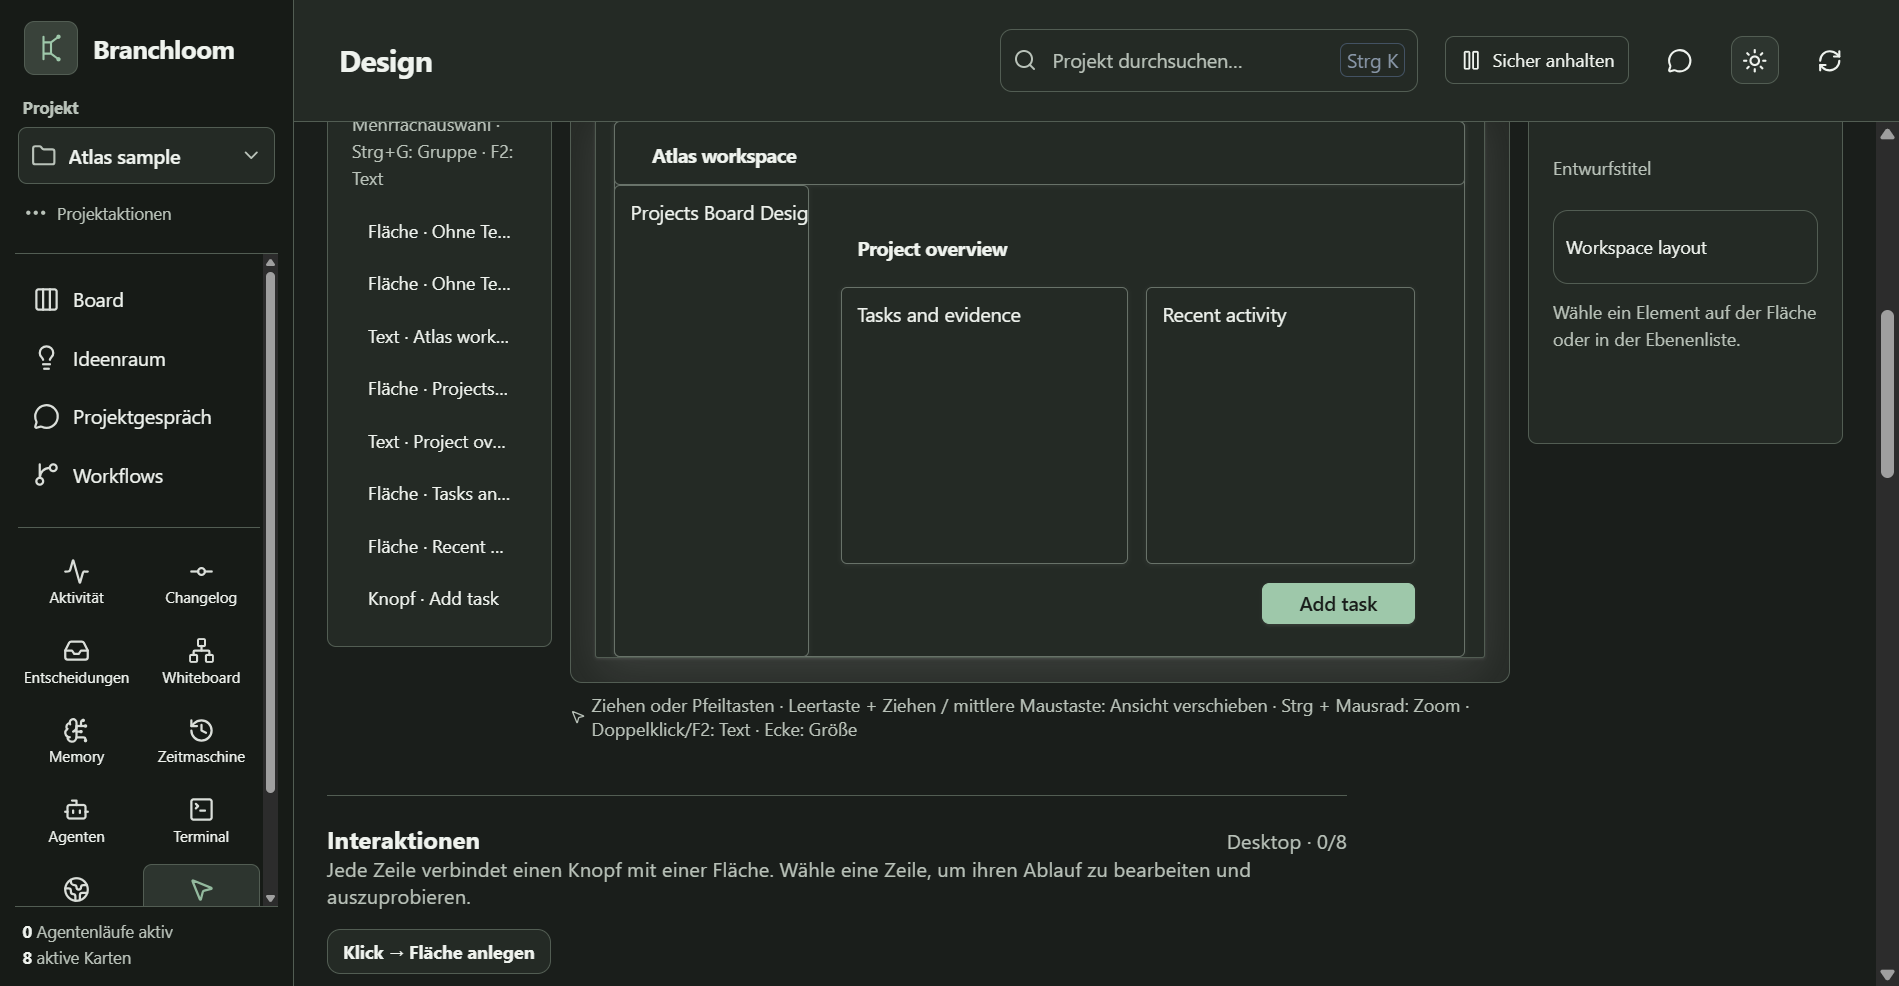
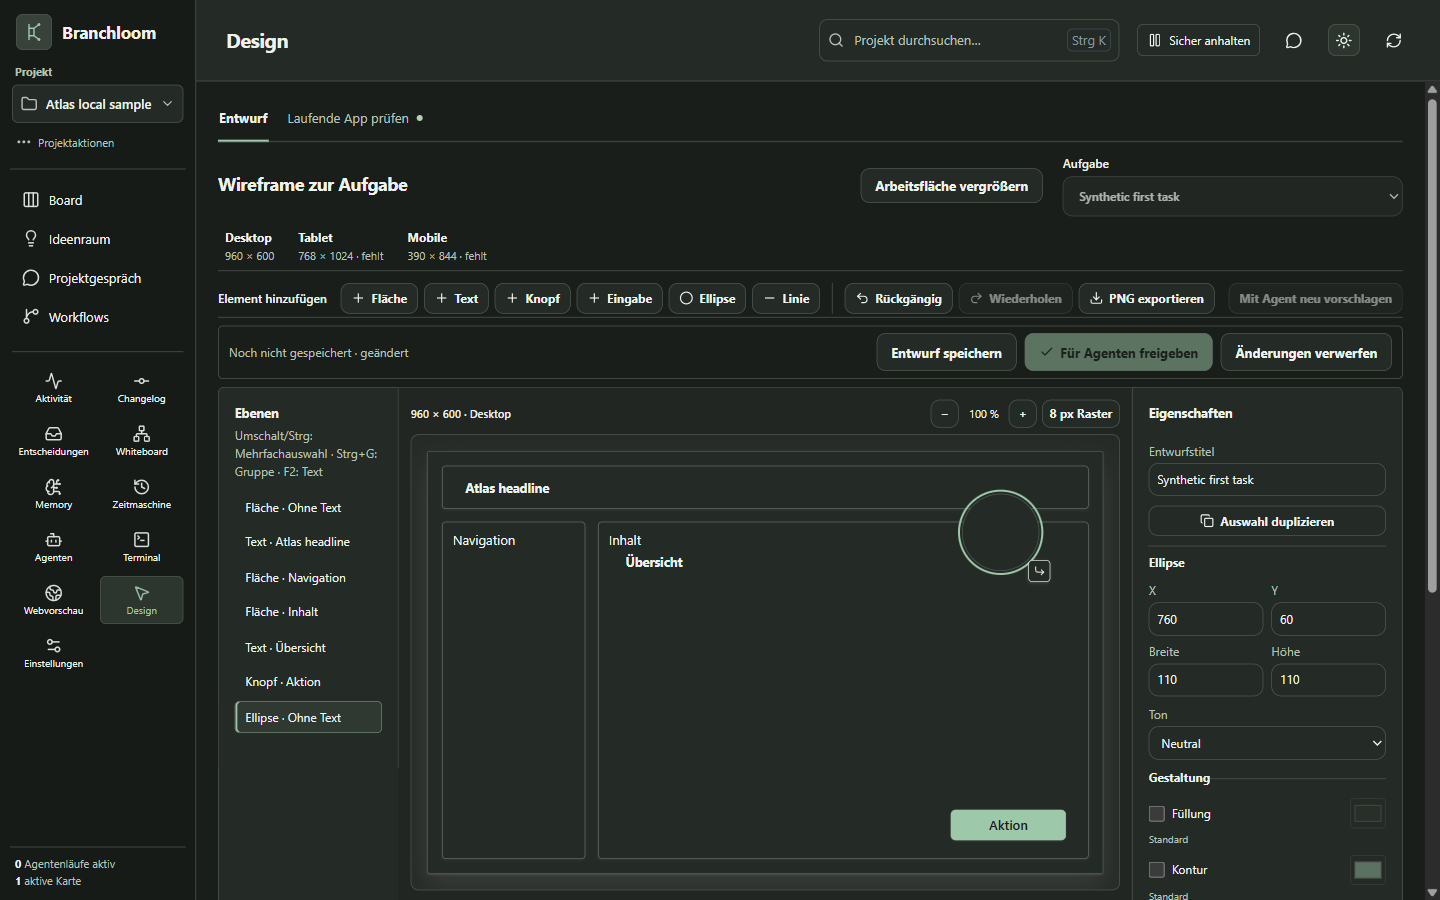
Document design direction and refresh workspace previews

diff --git a/README.md b/README.md
@@ -21,8 +21,8 @@ Branchloom is an early Windows preview. The interface and detailed feature docs 
 | --- | --- |
 | **Plan work** | Import an existing local Git project, capture ideas, create and filter board cards, set priorities and labels, and configure columns and workflows. The official Windows installer includes Trello sign-in; a custom package needs its own [Trello app setup](docs/IMPORT.md). |
 | **Run agents** | Assign an installed CLI agent to a column or task. Branchloom starts local sessions, records their output, and can run independent cards in separate Git worktrees. Agent availability and model access depend on the CLI installed and signed in on your machine. |
-| **Keep context** | Search locally indexed tasks, completed runs, Git commits, and code passages. The Memory graph shows documented relationships; it does not infer semantic links from prose. Project Chat can answer from indexed sources and prepare editable card or Whiteboard drafts. Saving either draft requires a click. |
-| **Shape the UI** | Create a card wireframe across desktop, tablet, and mobile artboards; inspect an explicitly opened local dev page; collect element, CSS, component, and token references. A saved wireframe reaches an agent only after separate approval. |
+| **Keep context** | Search locally indexed tasks, completed runs, Git commits, and code passages. The Memory graph opens at a source with saved links and lets you inspect one or two relationship steps or the full current excerpt; it does not infer semantic links from prose. Project Chat can answer from indexed sources and prepare editable card or Whiteboard drafts. Saving either draft requires a click. |
+| **Shape the UI** | Edit a card wireframe across desktop, tablet, and mobile artboards, with layers, properties, and explicit save and approval. A separate view inspects an explicitly opened local dev page and collects element, CSS, component, and token references. A saved wireframe reaches an agent only after separate approval. |
 | **Review and verify** | Inspect diffs, attach acceptance and QA evidence, run bounded browser checks against a local route, compare saved screenshots, and use the manual integration queue. Evidence is shown with its source and limits. |
 | **Replay a UI bug** | Record a few clicks and viewport changes in a local card preview, set a visible or hidden element as the expected result, then explicitly replay the saved steps in an isolated check. [Scope and limits](docs/BUG_REPLAY.md). |
 | **Control the run** | Pause a project or workflow at a checked boundary, review agent questions in the Decision Inbox, and inspect local activity and usage counts. The installed app offers a GitHub release update only after you choose **Update**. |
@@ -43,20 +43,20 @@ The pictured answer is generated by the synthetic screenshot harness, not a real
 <details>
 <summary>Memory and Whiteboard</summary>
 
-![Branchloom Memory graph built from synthetic tasks, sessions, and a Git repository](docs/assets/branchloom-memory.png)
+![Branchloom Memory focused on a synthetic task and its saved file links](docs/assets/branchloom-memory.png)
 
 ![A synthetic architecture Whiteboard with linked boxes](docs/assets/branchloom-whiteboard.png)
 
-Memory indexes saved work and Git sources; Whiteboard connections are editable project data. [Memory](docs/MEMORY.md) · [Whiteboard](docs/WHITEBOARD.md).
+Memory indexes saved work and Git sources; its focused graph shows stored links and provides a source inspector. Whiteboard connections are editable project data. [Memory](docs/MEMORY.md) · [Whiteboard](docs/WHITEBOARD.md).
 
 </details>
 
 <details>
 <summary>Design workspace</summary>
 
-![Branchloom's task wireframe editor with a synthetic workspace layout](docs/assets/branchloom-design.png)
+![Branchloom Design workspace editing a synthetic wireframe with layers and properties](docs/assets/branchloom-design.png)
 
-The wireframe is a local design draft, not generated production code. [Wireframes](docs/CARD_WIREFRAME.md) · [Design inspection](docs/DESIGN_INSPECTION.md).
+This synthetic draft was edited in the app; it is a local design sketch, not generated production code. The running local app opens in a separate inspection view. [Wireframes](docs/CARD_WIREFRAME.md) · [Design inspection](docs/DESIGN_INSPECTION.md).
 
 </details>
 

diff --git a/DESIGN.md b/DESIGN.md
@@ -1,0 +1,33 @@
+# Branchloom visual system (working direction)
+
+This file records the current UI decisions for Branchloom's Windows desktop app. It is a design constraint for new work, not a claim that every existing screen follows it. [Product intent](docs/PRODUCT_VISION.md), [verified status](docs/STATUS.md), and user feedback take precedence when they disagree with this file.
+
+## Job and audience
+
+Branchloom is an operating surface for people who plan, run, and review coding-agent work. Its primary view should show the work itself: a board, a diagram, an editable artboard, a live app, or a source-backed relationship map. Controls should support that surface without becoming the main visual event. A newcomer must see the next useful action; an experienced user must retain fast access to sources, agent settings, and approval gates.
+
+## Current visual language
+
+- **Type:** IBM Plex Sans Variable for interface copy and headings; tabular numerals for IDs, counts, sizes, and time. Keep primary controls and inspector values readable at 13–14 px or larger at a 1440 px desktop viewport. Secondary metadata may be smaller, but must remain legible.
+- **Light:** canvas `#f6f7f5`, sidebar `#e9eeea`, surface `#ffffff`, text `#202a24`, border `#c7d0c8`, accent `#275d48`.
+- **Dark:** canvas `#191e1b`, sidebar `#151b17`, surface `#222a25`, text `#eef3ee`, border `#4e5e52`, accent `#8bcaa7`.
+- These values come from `src/renderer/brand.css`. Use its semantic CSS variables for new UI; avoid new page-specific colors without a concrete state or source distinction. Both themes are product surfaces, not a dark-only marketing treatment.
+- Borders express actual containment or a resizable split. Prefer spacing and type hierarchy over nested rounded boxes. Reserve the accent for selection, focus, and the one primary action in a local workflow.
+
+## Surface rules
+
+| View | Main object | Supporting controls |
+| --- | --- | --- |
+| Board | Cards in a readable workflow column | Column settings, search/filter, and task actions stay close to the relevant work. |
+| Architecture | Diagram on a spacious canvas | Selection, source evidence, draft discussion, and explicit incorporation; no permanent empty inspector taking diagram space. |
+| Memory | One source and its proven local relationships | Source/age, depth, filters, inspector, and a path to the complete excerpt. Node position never implies semantic similarity. |
+| Design | Editable artboard or explicitly opened local app | Layers and properties remain visible; a compact tool cluster keeps the canvas in the first viewport. Save and agent approval are separate steps. |
+
+## Interaction and verification
+
+- Selection should be obvious and keyboard reachable. When an operation uses mouse drag, provide a discoverable keyboard path where practical.
+- An unsaved draft, a saved revision, an approved context, and running source code are different states. Label them plainly and never imply that a model response changed project code.
+- Motion should explain a user action, such as opening an inspector or completing a move. Avoid ambient animation, decorative gradients, glows, and vanity statistics.
+- Review the actual Electron UI at 1440 × 900 and 430 × 760 with synthetic data in both themes when changing a shared visual rule. Check overflow, focus, contrast, empty/error states, and whether the main surface is visible without scrolling.
+
+This direction draws on the user's screenshots and feedback, the local `anti-slop-design` and `frontend-design` skills, and [Impeccable's design-context workflow](https://impeccable.style/docs/context/). No Impeccable source code is included in Branchloom.

diff --git a/AGENTS.md b/AGENTS.md
@@ -6,7 +6,7 @@ Branchloom (früher Jarvis Studio) ist eine eigenständige lokale Agenten-App. K
 - Das öffentliche Repository enthält nur allgemeine Software, synthetische Tests und Dokumentation. Schlüssel, persönliche Inhalte, Board-Daten, Agentenprotokolle und lokale Profile liegen außerhalb des Repositories.
 - Ein Agent darf für schreibende oder externe Aktionen nicht allein wegen einer Modellantwort zusätzliche Berechtigungen erhalten. Automatischer Start ist eine bewusste Projekt-/Spalteneinstellung; Stop/Pause muss zuverlässig sein.
 - Änderungen an Karten und Workflows müssen nach einem App-Neustart erhalten bleiben. Fehler und Grenzen bleiben in `docs/STATUS.md` sichtbar.
-- Für UI-Arbeit den installierten `anti-slop-design`-Skill anwenden. Branchloom nutzt ruhige, warme und gut lesbare Oberflächen; keine dunkelblauen Grundflächen, Neon-Effekte, dekorativen Gradients oder erfundenen Kennzahlen. Bestehende Bedienlogik und Tastaturzugänglichkeit erhalten.
+- Für UI-Arbeit den installierten `anti-slop-design`-Skill und [DESIGN.md](DESIGN.md) anwenden. Branchloom nutzt ruhige, warme und gut lesbare Oberflächen; keine dunkelblauen Grundflächen, Neon-Effekte, dekorativen Gradients oder erfundenen Kennzahlen. Bestehende Bedienlogik und Tastaturzugänglichkeit erhalten.
 - Vor einem öffentlichen Push: Diff, `npm audit`, Tests, Typprüfung und Build prüfen. Keine personenbezogenen Pfade oder Secrets committen.
 
 Aktuelle Priorität für **dieses Repository**: [Produktvision](docs/PRODUCT_VISION.md) in überprüfbaren vertikalen Schritten umsetzen. Bestehende Nutzerdaten und interne Formate beim Namenswechsel erhalten. Neue Verhaltenswünsche des Nutzers gehen vor dieser Datei.
